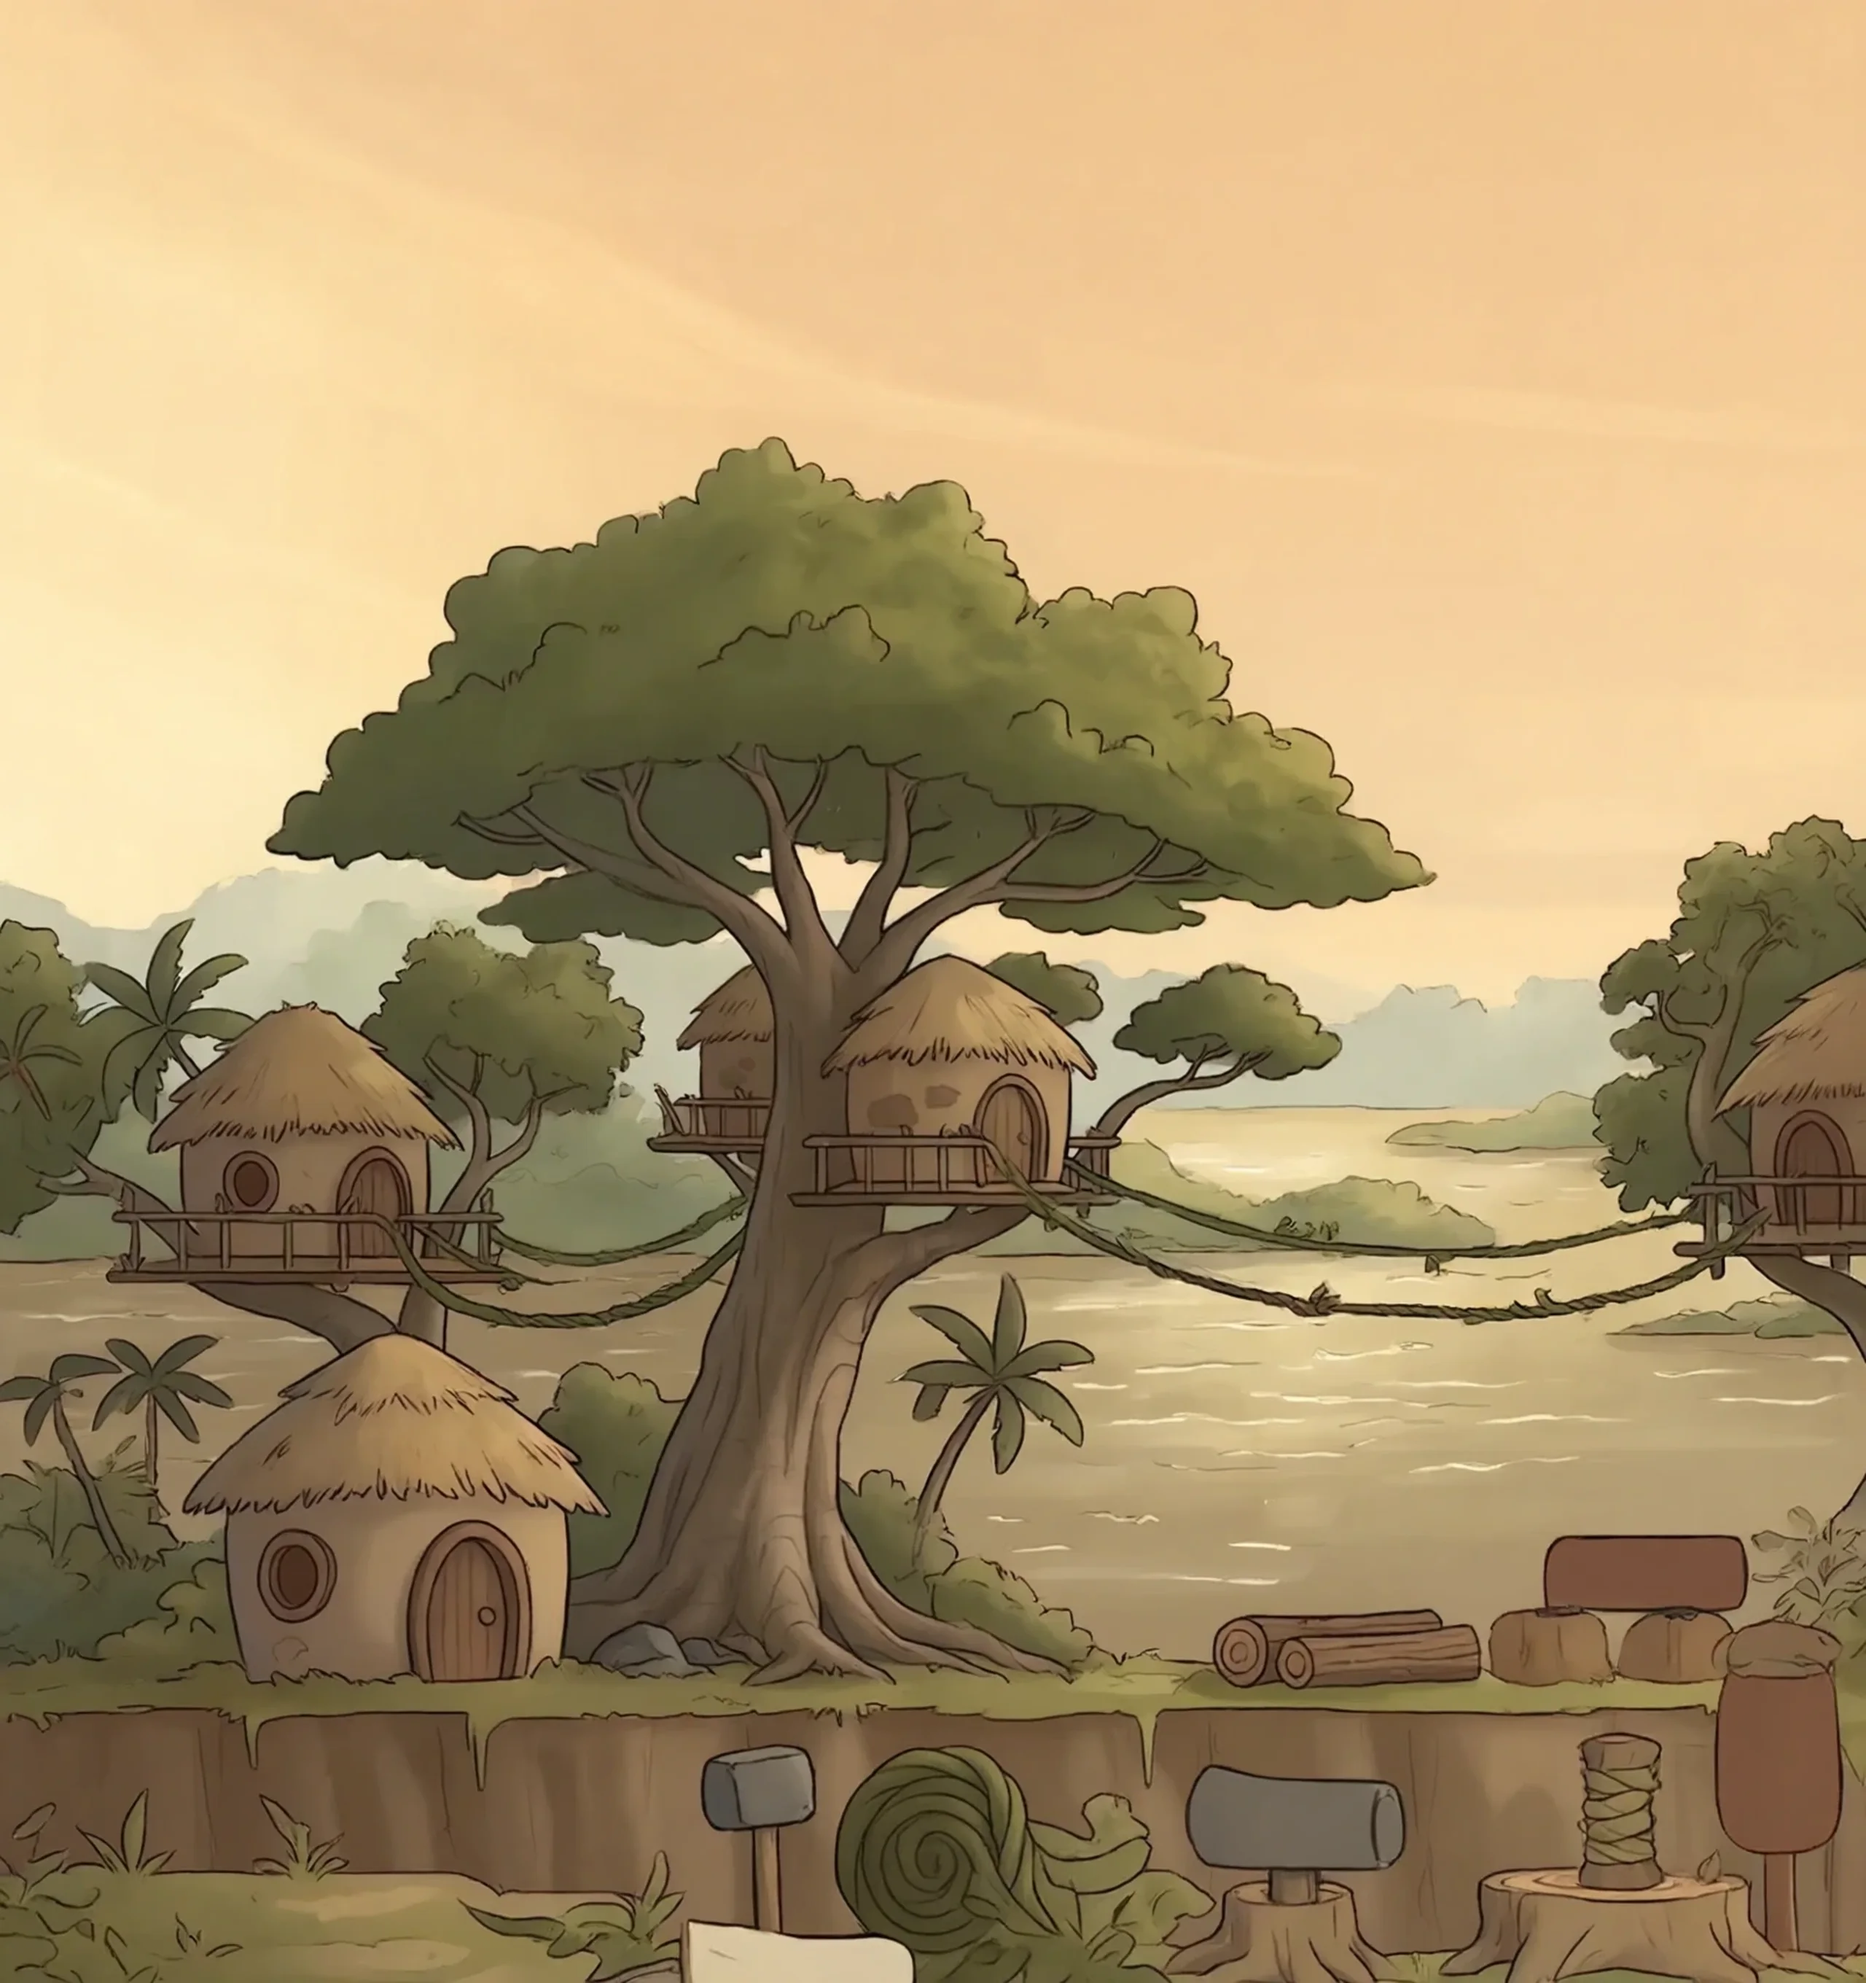
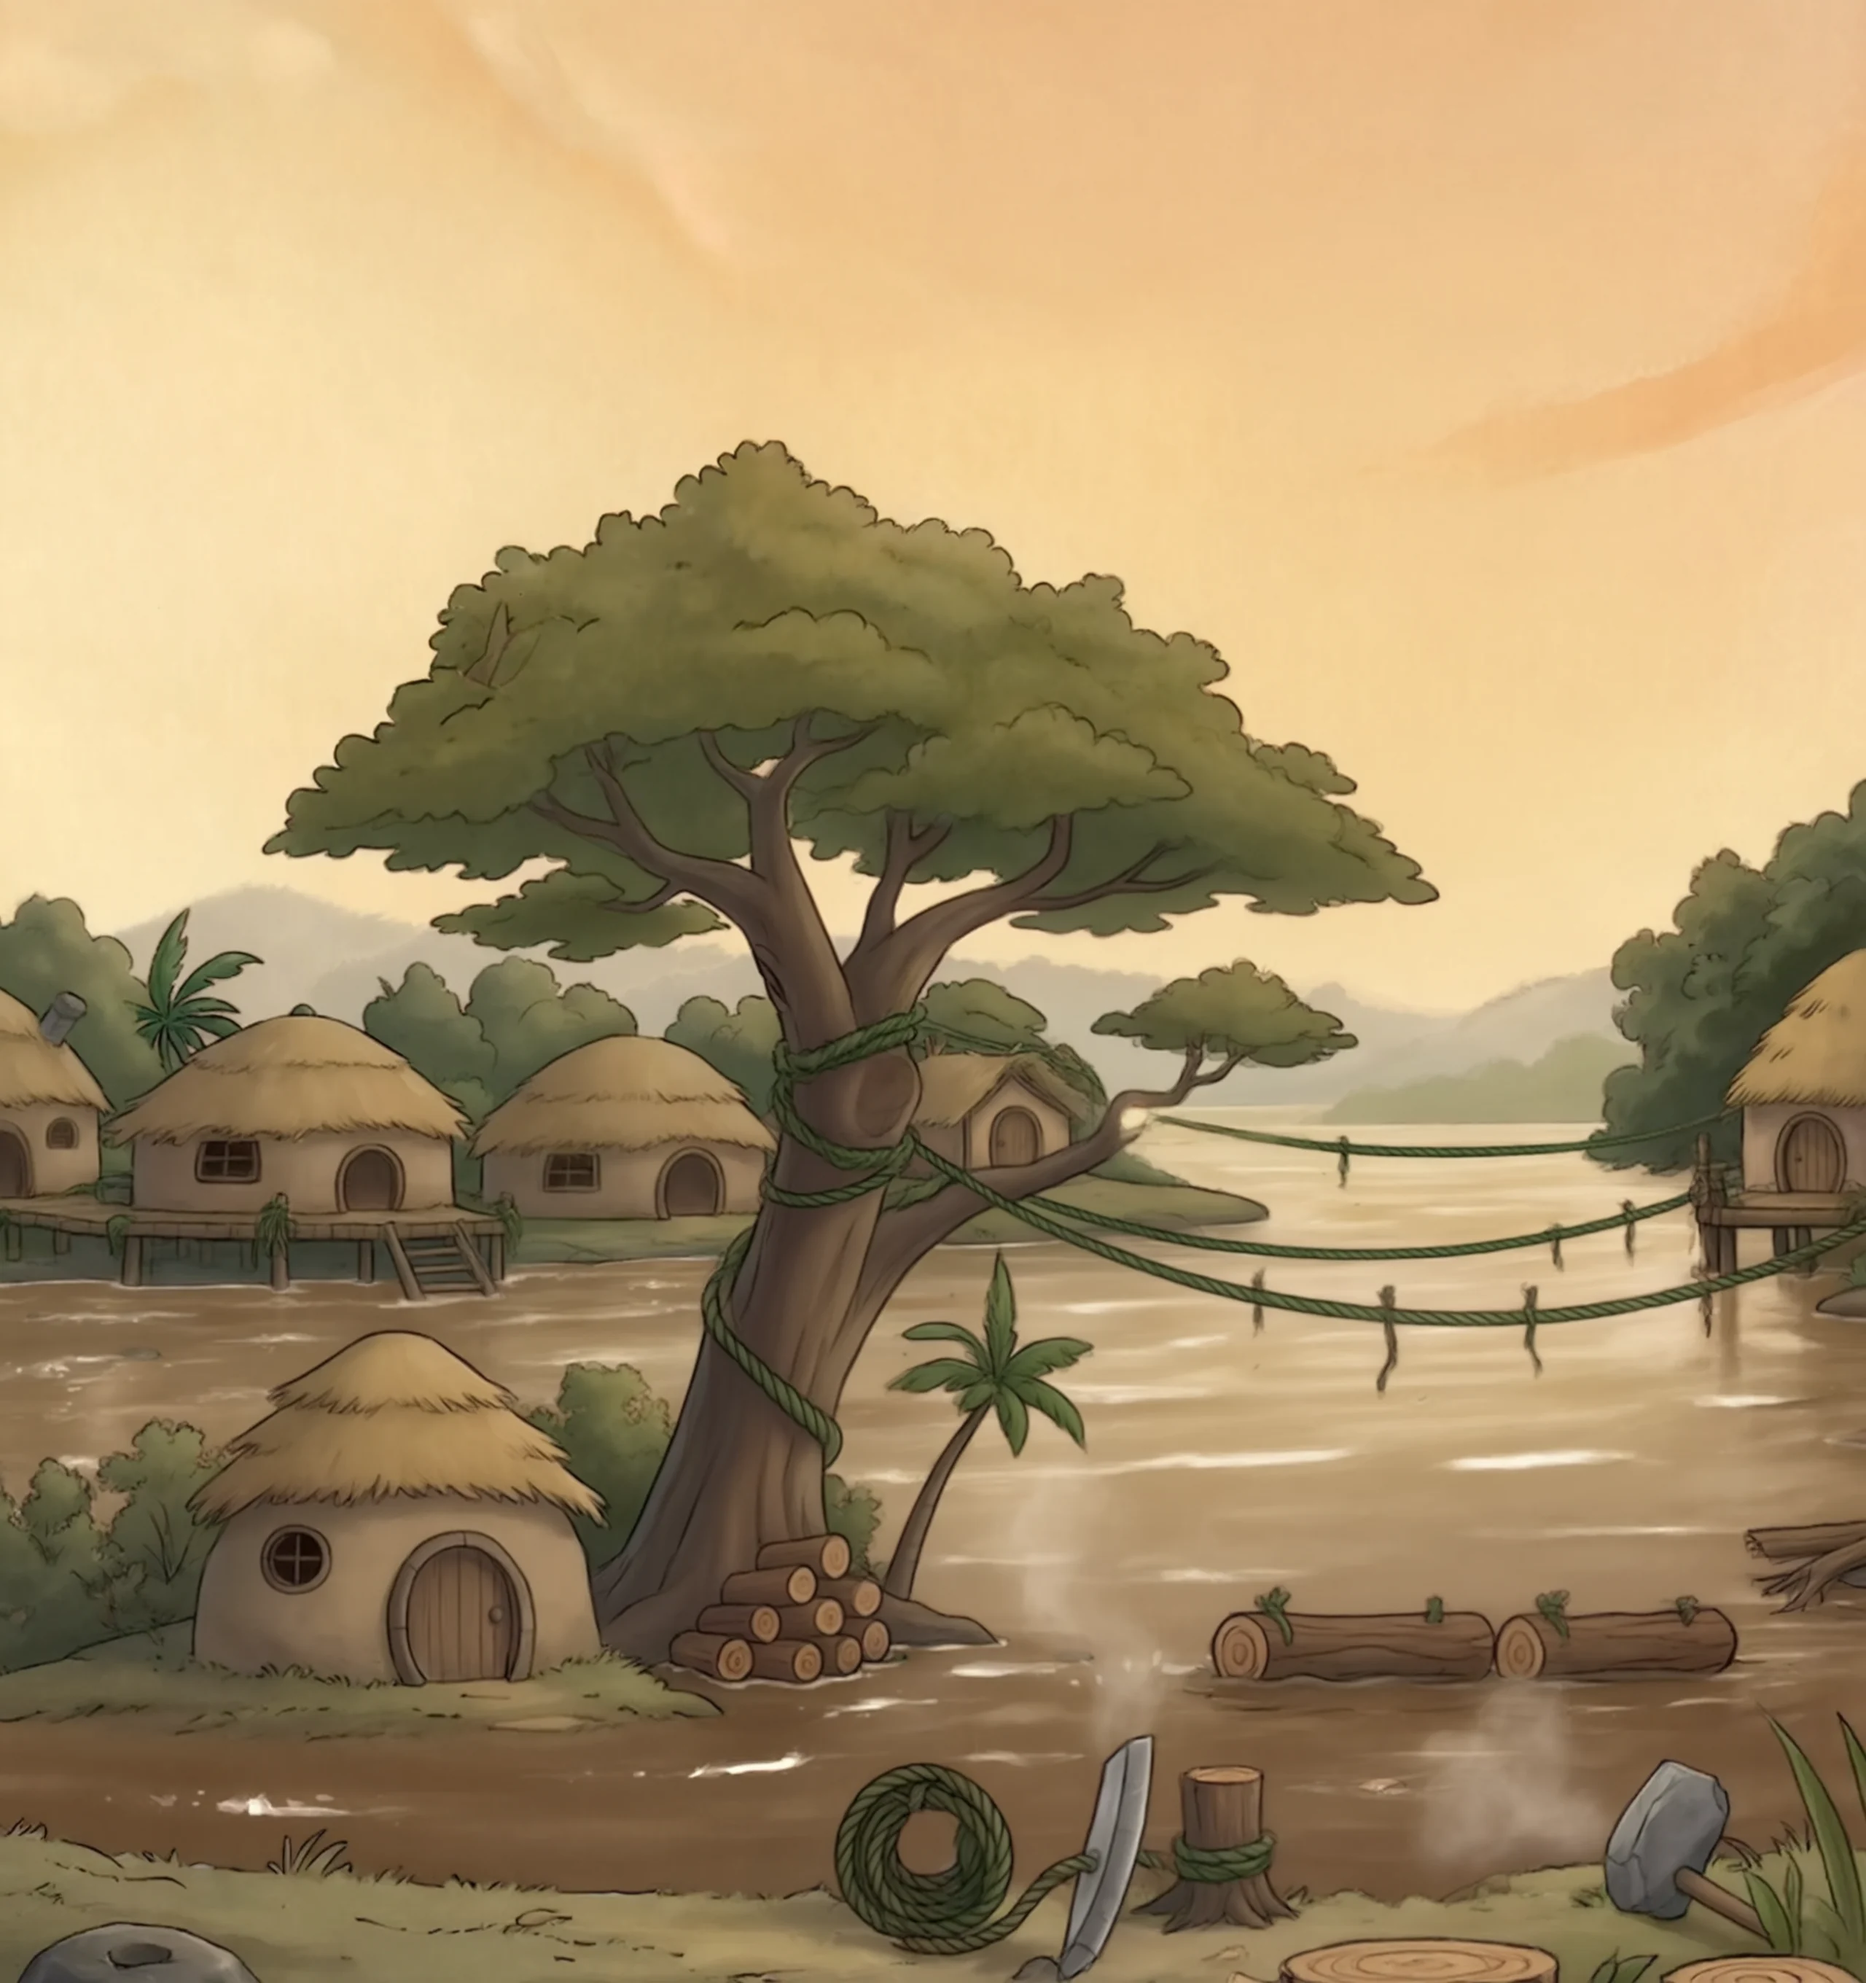
hf-cutscenes: raft plate repainted and wired to the W2 mid raft beats
Claude-Session: https://claude.ai/code/session_01FhBbYKKuWP5Xz84JFpUdcB

Changed region(s): [[0.0, 0.2188, 1.0, 1.0], [0.8125, 0.0938, 1.0, 0.25], [0.1875, 0.3438, 0.2188, 0.375]]

diff --git a/src/game/storyWorlds.ts b/src/game/storyWorlds.ts
@@ -116,7 +116,7 @@ const W2 = chapter({ name: C2, w: 2, m: 'day', cue: 'comedy', i: 0.4, base: { pa
 
 // ART HOOK: the village building Pokey's raft, one log at a time (reference/ART-TO-GET.md)
 const W2_MID = chapter({ name: MID[2], w: 2, m: 'day', cue: 'comedy', i: 0.4, base: { particles: 'sparkles' } }, [
-  N('The village had promised Pokey a raft. They started building it the morning he arrived. By the afternoon, they had agreed on what kind of wood.', 'P:idle@.24 PO:carry_stand@.66*.9 TC:point_bell@.86*.9', { sting: 'laugh' }),
+  N('The village had promised Pokey a raft. They started building it the morning he arrived. By the afternoon, they had agreed on what kind of wood.', 'P:idle@.24 PO:carry_stand@.66*.9 TC:point_bell@.86*.9', { sting: 'laugh', p: { plate: 'raft' } }),
   N('Pokey sat on the bank and watched them.', 'P:tired@.3 D@.6^.4'),
   D('Pokey. Your foot\'s tapping.', 'P:tired@.3 D:puzzled@.6^.4'),
   P('It is not.', 'P:talk@.3 D@.6^.4'),
@@ -129,7 +129,7 @@ const W2_MID = chapter({ name: MID[2], w: 2, m: 'day', cue: 'comedy', i: 0.4, ba
     'P:worried@.3 D@.6^.4', { cue: 'reveal', i: 0.35 }),
   P('The snake kept scratching at his. I thought he had fleas.', 'P:talk@.3 D@.6^.4'),
   D('Snakes don\'t get fleas, Pokey.', '=', { cue: 'dread', i: 0.35 }),
-  N('Down on the bank, a sloth carefully fitted the first log of the raft into place, stepped back, and looked at it until lunch.', 'P:idle@.24 PO:carry_stand@.66*.9', { cue: 'comedy', i: 0.3 }),
+  N('Down on the bank, a sloth carefully fitted the first log of the raft into place, stepped back, and looked at it until lunch.', 'P:idle@.24 PO:carry_stand@.66*.9', { cue: 'comedy', i: 0.3, p: { plate: 'raft' } }),
   P('She wants me to be nice to the snake.', 'P:talk@.3 D@.6^.4', { cue: 'tender', i: 0.4 }),
   D('She was nice to a wasp once. Now it visits. It brings friends.', '=', { sting: 'laugh' }),
   P('What\'s in the pouch?', 'P:talk@.3 D@.6^.4', { cue: 'sorrow', i: 0.3 }),

diff --git a/src/game/plateData.ts b/src/game/plateData.ts
@@ -26,7 +26,7 @@ export const PLATES: Record<string, PlateInfo> = {
   steps: { ground: 0.86, what: "the courtyard after the storm turns, the wet stone steps down from the tower's door (Pokey and Meeca sit on them)" },
   'nest-morning': { ground: 0.86, what: "Matt's sequel card: the misty morning branch, empty, a black thorn grown out of it with the scarf hanging from it (the sequel tag)" },
   'storm-returns': { ground: 0.86, what: "Matt's sequel card: the storm comes back at night, Pokey asleep on his branch with the scarf trailing down (painted in: no actors over it)" },
-  raft: { ground: 0.84, what: "World 2's riverbank village building Pokey's raft at village speed: two logs lashed, the rest still a pile (hf-art-bosses, HF row 9)" },
+  raft: { ground: 0.86, what: "World 2's riverbank village building Pokey's raft at village speed: logs lashed and waiting, rope, the stone hammer (repainted, hf-cutscenes)" },
   gorge: { ground: 0.78, what: "World 4's misty gorge: Pokey hanging from the vine's end over the mist, Dot pulling at his claw (no floor: he hangs; hf-art-bosses, HF row 9)" },
   council: { ground: 0.84, what: 'the clearing with the council fire and the seats of the ten' },
   gates: { ground: 0.85, what: 'the fortress from the foot of the thousand steps: the gates standing open, ten green lights along the wall tops, rain and a lightning fork' },
